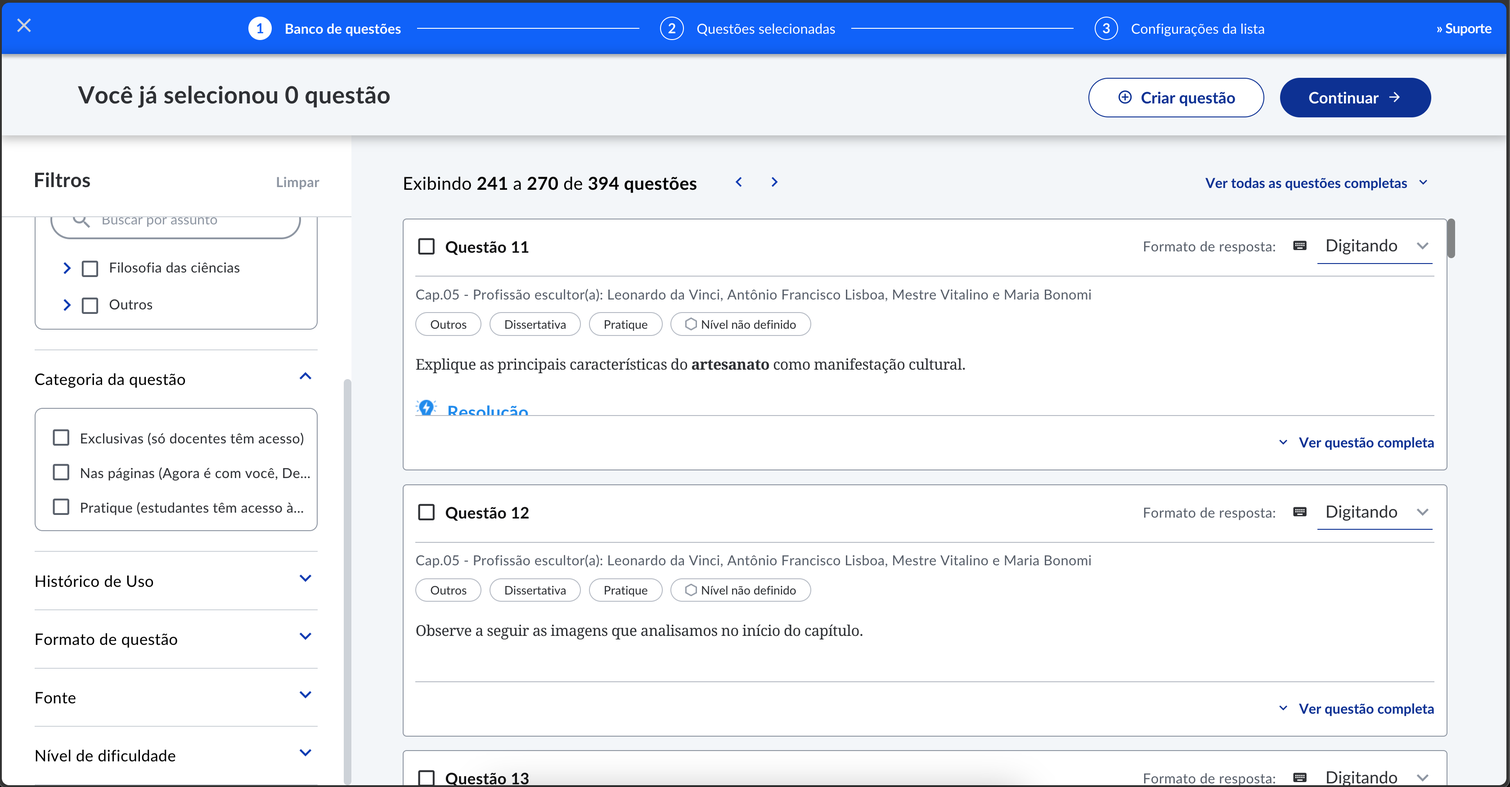
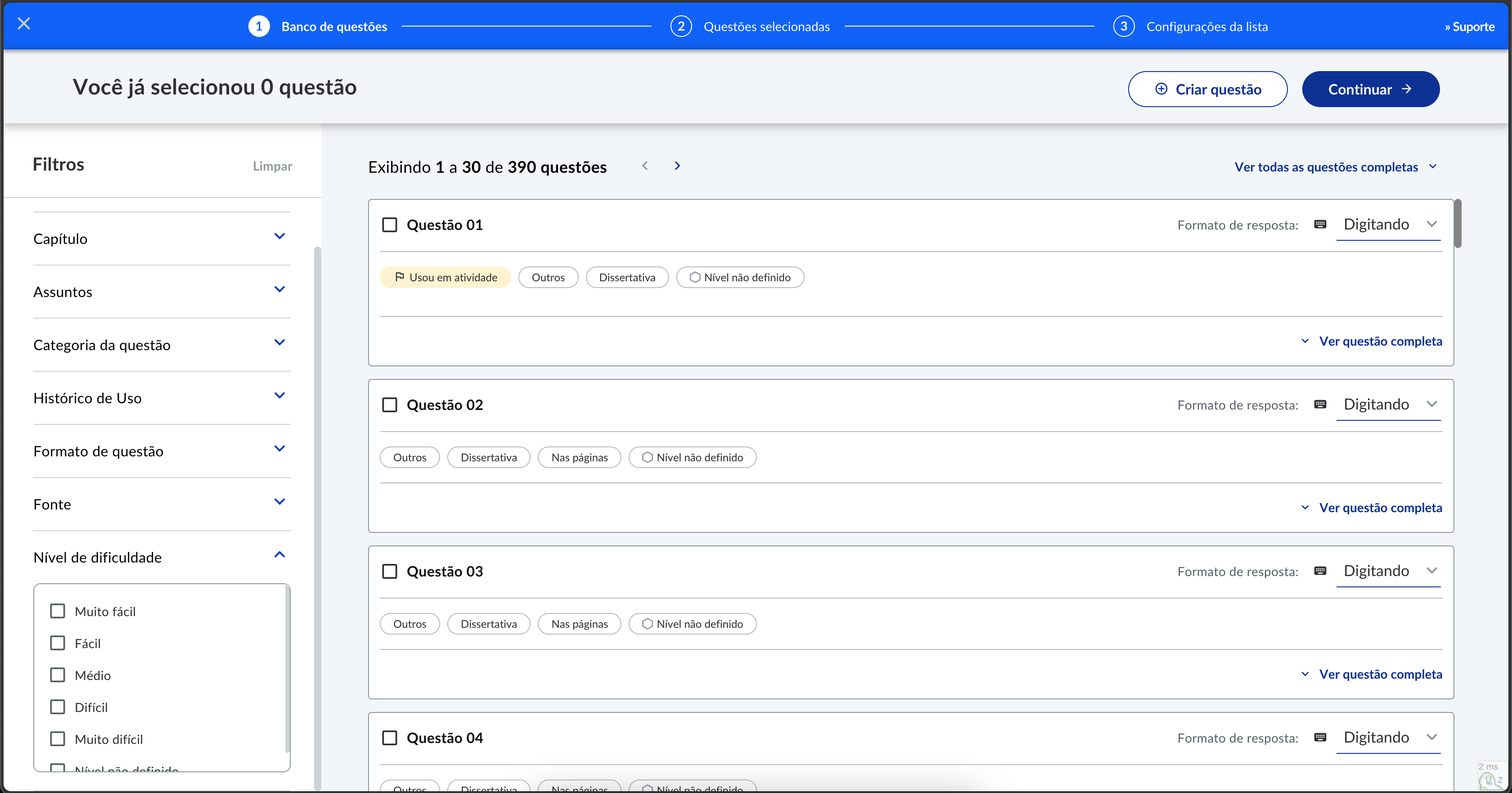
Correções até a subseção de planejamento do experimento (5.1.2)

diff --git a/editaveis/secao-execucao/pre-estudo.tex b/editaveis/secao-execucao/pre-estudo.tex
@@ -1,34 +1,44 @@
 \subsection{Planejamento do Experimento Controlado}
 \label{subsec:plan_exp}
-Após a fase de ideação, iniciou-se o planejamento do experimento. Este estudo visa responder à primeira questão específica de pesquisa do estudo de caso, descrita na subseção \ref{subsec:estudo-questao}. Neste experimento, duas versões do produto são comparadas avaliando aspectos relacioandos a visão da qualidade em uso do produto.
 
-A literatura destaca a dificuldade em definir métricas que representem com precisão a entrega de valor desejada \cite{crook_seven_2009, larsen_statistical_2024}. Para evitar limitações de uma única medida, foram selecionadas métricas que refletem alguns dos objetivos de longo prazo do negócio, utilizando normas de referência para garantir maior confiabilidade e reprodutibilidade dos resultados. 
+Após a fase de ideação, iniciou-se o planejamento do experimento. Este estudo busca responder à primeira questão específica de pesquisa do estudo de caso, conforme descrito na Subseção \ref{subsec:estudo-questao}. O experimento consiste na comparação entre duas versões do produto, avaliando aspectos relacionados à qualidade em uso.
 
+A literatura evidencia a complexidade na definição de métricas que representem com precisão a entrega de valor almejada \cite{crook_seven_2009, larsen_statistical_2024}. Para mitigar as limitações inerentes a uma única métrica, optou-se por adotar múltiplas medidas que refletem alguns dos objetivos estratégicos do negócio, utilizando normas de referência para assegurar maior confiabilidade e reprodutibilidade dos resultados.
 
-\todo[inline, color=pink]{Atenção: Aqui é necessário trazer toda aquela parte conceitual, aplicada, sobre metrica, medida. Informações como o tipo de escalas, objetiva-subjetiva, direta-indireta Releia o cap. 3 do livro do Wohlin} 
+No contexto da Engenharia de \textit{Software}, as métricas podem ser classificadas segundo diferentes critérios. Quanto à \textbf{forma de coleta}, uma métrica pode ser \textbf{direta}, quando obtida sem necessidade de cálculos ou transformações, ou \textbf{indireta}, quando derivada a partir de outras métricas. Além disso, as métricas podem ser \textbf{objetivas}, caso sua mensuração seja independente da interpretação do avaliador, ou \textbf{subjetivas}, quando dependem da percepção do avaliador ou do próprio usuário \cite{wohlin_experimentation_2012}.
 
+Outro fator relevante é o tipo de \textbf{escala} utilizada, que influencia as análises estatísticas aplicáveis. As escalas \textbf{nominais} classificam os dados sem uma ordem definida, enquanto as escalas \textbf{ordinais} estabelecem uma hierarquia, mas sem diferenças proporcionais entre os valores. Já as escalas \textbf{intervalares} permitem quantificar diferenças, embora sem um zero absoluto, ao passo que as escalas \textbf{de razão} possuem um zero absoluto e possibilitam comparações proporcionais \cite{wohlin_experimentation_2012}.
 
-
-As métricas foram escolhidas com base na norma \citeonline{nbr9241}, considerando o contexto do filtro de nível de dificuldade e da criação de atividades, funcionalidades diretamente relacionadas à suposição analisada. 
-
-
-As métricas adotadas são \textcolor{blue}{são}\todo[color=yellow]{explicar melhor. Está confuso }: 
+Dessa forma, na seleção das métricas para este experimento, tomou-se como base a norma \citeonline{nbr9241}, considerando o contexto do filtro de nível de dificuldade e da criação de atividades, funcionalidades diretamente relacionadas à hipótese analisada. Assim, as métricas adotadas foram definidas para capturar diferentes dimensões da qualidade em uso, sendo elas:
 
 \begin{itemize}
-  \item o número de vezes que cada usuário utilizou o filtro - representando uma percepção quantitativa da característica de qualidade satisfação de usuário. Esta, por sua vez, foi observada por meio da subcaracterística de utilidade;
-  \item o número de atividades criadas e o número de exercícios selecionados, ambos relacionados à caracter;istica da quelidade de eficácia do produto - auxilia o usuário a alcançar seus objetivos na plataforma. 
+  \item \textbf{Número de utilizações do filtro de nível de dificuldade}: métrica objetiva e direta, mensurada na escala de razão. Representa um indicador quantitativo da subcaracterística de \textit{utilidade}, relacionada à satisfação do usuário.
+  \item \textbf{Número de atividades criadas}: métrica objetiva e direta, também mensurada na escala de razão. Relaciona-se à eficácia do produto, indicando se a plataforma auxilia o usuário a atingir seus objetivos.
+  \item \textbf{Número de exercícios selecionados}: métrica objetiva e direta, mensurada na escala de razão. Assim como a métrica anterior, reflete a eficácia do produto, avaliando o engajamento dos usuários na realização de atividades propostas.
 \end{itemize}
 
-\todo[inline, color=pink]{Crie uma tabela com uma estrutura semelhante a apresentada no q-rapids. Confira na pg. 5  \url{https://github.com/fga-eps-mds/Analytics/blob/master/q-rapids\%20model-doc.pdf}}  
+A escolha dessas métricas visa garantir que os dados coletados possibilitem uma análise estatística confiável e alinhada aos objetivos do estudo. Ademais, a utilização de múltiplas métricas reduz o risco de interpretações enviesadas e amplia a compreensão dos impactos das modificações no produto. A relação dessas métricas com as características e subcaracterísticas da qualidade em uso é apresentada na Tabela \ref{tab:metricas_qualidade_uso}.
 
- Além disso, utilizamos o  método AHP para capturar a opinião dos \textit{stakeholders} sobre suas preferências relativas em relação a grau de importancia entre medidas e indicadores, conforme proposto no modelo QATCH. Assim, utilizamos uma escala intervalar para mapear as relações qualitativas e quantitativas. de forma a transformar as preferências relativas, em representações numéricas, conforme apresentado da tabala XXX....
- 
- \todo[inline, color=pink]{Crie uma tabela com essas informações. Desde o nível das medidas até as características }   
+\begin{table}[h]
+    \centering
+    \renewcommand{\arraystretch}{1.2}
+    \setlength{\tabcolsep}{3pt}
+    \begin{tabular}{|p{3cm}|p{3.5cm}|p{3.75cm}|p{4.75cm}|}
+        \hline
+        \textbf{Característica} & \textbf{Subcaracterística} & \textbf{Métrica} & \textbf{Descrição} \\
+        \hline
+        \multirow{1}{*}{Satisfação} & Utilidade & Número de utilizações do filtro de nível de dificuldade & Mede a utilidade da funcionalidade ao quantificar a frequência de uso dentro do período observado. \\
+        \hline
+        \multirow{2}{*}{Eficácia} & Eficácia & Número de atividades criadas & Avalia a eficácia do produto em auxiliar o usuário a alcançar seus objetivos, especificamente na criação de listas de exercícios. \\
+        \cline{2-4}
+        & Eficácia & Número de exercícios selecionados & Mede a eficácia do produto na seleção de exercícios para atividades, refletindo o engajamento do usuário. \\
+        \hline
+    \end{tabular}
+    \caption{Métricas Escolhidas de Qualidade em Uso}
+    \label{tab:metricas_qualidade_uso}
+\end{table}
 
-\todo[inline, color=pink]{Ainda, toda a definição das categorias Importante, Muito mais Importante,.... precisam ser explicadas. Por ex: medida em escalar intervalar; relações qualitativa X quantitativa quanto; intervalos, grau de incerteza;... } 
-
-\textcolor{blue}{na ponderaçãol}\todo[color=yellow]{Reescrever} na ponderação dos resultados, o peso de cada métrica foi determinado pelo método AHP, conforme proposto pelo modelo QATCH, convertendo avaliações qualitativas em pesos quantitativos (ver Subseções \ref{subsec:qatch} e \ref{subsec:ahp}). Esse processo define a importância relativa de cada métrica e característica em diferentes níveis de agregação (ver Figura \ref{fig:qatch_experiment}). O resultado está apresentado nas Tabelas \ref{tab:ahp-metrics} e \ref{tab:ahp-characteristics}.
-
+Além disso, para incluir a percepção dos profissionais envolvidos na ponderação dos resultados, o peso de cada métrica foi determinado pelo método AHP, conforme proposto pelo modelo QATCH, convertendo avaliações qualitativas em pesos quantitativos (ver Subseções \ref{subsec:qatch} e \ref{subsec:ahp}). Para isso, foi realizada uma reunião para definir a importância relativa de cada métrica e característica em diferentes níveis de agregação. Essa avaliação foi feita por pares, considerando a relação entre satisfação e eficácia (no nível de característica, para calcular a qualidade em uso) e entre o número de listas criadas e exercícios selecionados (no nível de métrica, para calcular a eficácia). Essa relação é ilustrada na Figura \ref{fig:qatch_experiment}.
 
 \begin{figure}
     \centering
@@ -40,81 +50,110 @@ As métricas adotadas são \textcolor{blue}{são}\todo[color=yellow]{explicar me
     \label{fig:qatch_experiment}
 \end{figure}
 
+Após discussões, os pesos relativos foram definidos em consenso, sendo os resultados apresentados nas Tabelas \ref{tab:ahp-metrics} e \ref{tab:ahp-characteristics}. Com esses valores estabelecidos, foi possível calcular os pesos quantitativos. A métrica de número de listas de exercícios criadas possui peso de 0.8889, enquanto a métrica de número de exercícios selecionados tem peso de 0.111. Juntas, representam a característica de eficácia. Para as características, os pesos são 0.8333 para satisfação e 0.1667 para eficácia. A soma desses valores gera um indicador único de qualidade em uso para cada usuário (este cálculo é detalhado na Subseção \ref{subsec:qatch}). Essa relação é apresentada visualmente na Figura \ref{fig:qatch_pesos}.
+
 \begin{table}[ht]
     \centering
+    \caption{Importância Relativa das Métricas de Eficácia}
     \begin{tabular}{|p{4cm}|p{4cm}|p{6.5cm}|}
         \hline
-        Métrica & N. de Listas Criadas & N. de Exercícios Selecionados \\ \hline
-        N. de Listas Criadas & - & Muito Mais Importante \\ \hline
-        N. de Exercícios Selecionados & - & - \\ \hline
+        Métrica & Nº de Listas Criadas & Nº de Exercícios Selecionados \\ \hline
+        Nº de Listas Criadas & - & Muito Mais Importante \\ \hline
+        Nº de Exercícios Selecionados & - & - \\ \hline
     \end{tabular}
-    \caption{Importância Relativa das Métricas de Eficácia}
+    \begin{center}
+        \text{Fonte: Autor}
+    \end{center}
     \label{tab:ahp-metrics}
 \end{table}
 
 \begin{table}[ht]
     \centering
+    \caption{Importância Relativa das Características de Qualidade em Uso}
     \begin{tabular}{|p{4cm}|p{4cm}|p{6.5cm}|}
         \hline
         Característica & Satisfação & Eficácia \\ \hline
         Satisfação & - & Moderadamente Mais Importante \\ \hline
         Eficácia & - & - \\ \hline
     \end{tabular}
-    \caption{Importância Relativa das Características de Qualidade em Uso}
+    \begin{center}
+        \text{Fonte: Autor}
+    \end{center}
     \label{tab:ahp-characteristics}
 \end{table}
 
-Com os níveis de importância estabelecidos, é possível calcular os pesos quantitativos. A métrica de número de listas de exercícios criadas possui peso de 0.8889, enquanto a métrica de número de exercícios selecionados tem peso de 0.111. Juntas, representam a característica de eficácia. Para as características, os pesos são 0.8333 para satisfação e 0.1667 para eficácia. Esses valores, somados, geram um indicador único de qualidade em uso para um usuário específico (para mais detalhes sobre o cálculo, ver Subseção \ref{subsec:qatch}).
+\begin{figure}
+    \centering
+    \caption{Pesos da Ponderação Agregada QATCH no Experimento}
+    \includegraphics[width=1\linewidth]{figuras/tabela_exemplo_agregacao.png}
+    \begin{center}
+        \text{Fonte: Autor}
+    \end{center}
+    \label{fig:qatch_pesos}
+\end{figure}
 
-\todo[inline, color=pink]{Acerte aquela tabela que começamos fazer em uma de nossas reuniões e represente ela aqui, para explicar as definições dos pesos. Uma espécie de passo-a-passo. Descreva um exemplo.}
 
-Tabela que começamos fazer: \url{https://docs.google.com/spreadsheets/d/1S00LLnvxdgasowrQ79PKTeR8xDZLZBjgEeV3TmjYhXs/edit?gid=0#gid=0}
+Desta forma então, os indicadores de qualidade em uso de cada usuário serão utilizados para se testar a hipótese formulada neste experimento, que servirá para responder a primeira questão específica deste estudo de caso, aprensentada na Subseção \ref{subsec:estudo-questao} (\textit{Durante o experimento, foi possível identificar diferença de qualidade em uso entre as versões de controle (A) e de tratamento (B) do produto, a partir de seu uso?}). Temos então as seguintes definições do experimento:
 
-O experimento foi estruturado da seguinte forma:
 
-\todo[inline, color=pink]{Penso que essa estrutura de marcadores não ficou legal. Alterar para lista numerada}
-
-\begin{itemize}
- \item \textbf{Escopo:} \textcolor{blue}{Descrever. Veja pg. 85 do livro do Wohlin}   
+\begin{enumerate}
+    \item \textbf{Escopo:} Analisar as versões A e B do produto com o propósito de avaliar sua efetividade e usabilidade das funcionalidads de filtragem de exercícios e criação de atividades, do ponto de vista do usuário final, no contexto do ambiente real de uso do sistema;
     
-    \item \textbf{Objeto:} \textcolor{blue}{???? Eventos de uso do produto, gerados a partir da utilização das funcionalidades A,B C, ... Esses eventos de uso são obtidos no servidor de aplicação XXX, registros no banco de dados, .... Explicar melhor isso.}
+    \item \textbf{Objeto:} Versões de tratamento (A) e de controle (B) do produto sendo estudado;
     
-    \item \textbf{Sujeitos:} Os participantes serão docentes que criam listas de exercícios na plataforma. Eles serão divididos em dois grupos: o de tratamento, composto pelos usuários beta, e o de controle, formado pelos demais usuários da base;
+    \item \textbf{Sujeitos:} Os participantes serão apenas os usuários docentes, já que são estes que criam listas de exercícios na plataforma. 
     
-    \item \textbf{Fator:} O fator analisado será do comportamento em uso do produto, observado em termos das características qualidade em uso de satisfação e eficácia.
-   
-    \item \textbf{Variável Independente:} \textcolor{blue}{A posição do filtro}\todo[color=yellow]{Quais são exatamente essas posições?} a posição do filtro de nível de dificuldade. As posições do filtro serão mantidas de forma persistente para cada grupo, garantindo que cada usuário visualize sempre o filtro na mesma posição;
+    \item \textbf{Populações:} Os sujeitos serão divididos em dois grupos: o de tratamento, composto pelos usuários beta, e o de controle, formado pelos demais usuários da base; Hoje os usuários beta representam cerca de 10\% da base total de usuários, uma maior discussão sobre esta divisão foi apresentada na Subseção \ref{subsubsec:variants};
 
-\todo[inline, color=pink]{Seria bom ter duas imagens das telas. Uma com o filtro na versão atual e outra com respectiva alteração na interface gráfica.}
+    \item \textbf{Amostra:} a amostra coletada irá se referir a todos os docentes que criaram atividades no período e usaram algum dos filtros disponíveis; Não é possível estimar a proporção do tamanho da amostra dado que o mesmo dependerá do nível de atividade dos usuários durante o período;
 
-    \item \textbf{Variáveis Dependentes:} Número de vezes que cada docente utilizou o filtro, número de listas de exercícios criadas e número de exercícios selecionados. Essas variáveis serão normalizadas, ponderadas e agregadas para compor o indicador quantitativo \textit{Q}, conforme definido no modelo QATCH. Esse indicador funciona como um \textit{surrogate} que expressa a percepção da qualidade em uso, observada em uma determinada vesão do produto;
+    \item \textbf{Fator:} O fator analisado será a posição do filtro de nível de dificuldade no banco de questões. Dois tratamentos serão aplicados: um em que o filtro permanece na última posição (grupo de controle) e outro em que o filtro aparece em posição superior na listagem (grupo de tratamento);
+    
+    \item \textbf{Variáveis Independentes:} A posição do filtro será mantida de forma persistente para cada grupo, garantindo que cada usuário visualize sempre o filtro na mesma posição; A versão de controle será a mesma que já existe hoje, onde ele é o último da lista, como já abordado na Subseção \ref{subsec:plan_exp} e apresentado na Figura \ref{fig:selecao-questoes-controle}, já a versão de tratamento é apresentada na Figura \ref{fig:selecao-questoes-tratamento}, onde o filtro se torna o quarto da lista (esta posição foi ecolhida por que as três primeiras categorias são importantes para determinados fluxos de uso da aplicação, fazendo com que a equipe preferisse não alterá-los de lugar);
+    
+    \item \textbf{Variáveis Dependentes:} Número de vezes que cada docente utilizou o filtro, número de listas de exercícios criadas e número de exercícios selecionados. Essas variáveis serão normalizadas, ponderadas e agregadas para compor o indicador quantitativo \textit{Q}, conforme definido no modelo QATCH e apresentado anteriormente. Esse indicador busca expressar a percepção da qualidade em uso, observada em uma determinada versão do produto;
 
- 	\item \textbf{Tratamentos:} Dois tratamentos serão aplicados: um em que o filtro permanece na última posição (grupo de controle) e outro em que o filtro aparece em posição superior na listagem (grupo de tratamento);
-
- 	\item \textbf{\textit{Design}:} \textcolor{blue}{Descrever. Veja pg. 95 do livro do Wohlin. Crie uma tabela com exemplo para ilustrar. Veja tabelas 8.1  ou 8.2 na pg. 96. Veja também o cap. 7 do livro da Natalia Juristo. }     
-   
-    \item \textbf{Hipóteses:}
- 
- 	\todo[inline, color=pink]{Aqui deve haver um texto com a explanação que explique e conecte o mundo real (suposições dos especialistas sobre o uso do filtro e serem criadas mais questões, listas de exercícios,...). Depois, explicar como isso se reflete na quantificação da percepção da qualidade em uso. A partir disso é que as hipóteses são apresentadas... A hipótese a ser refutada é que não há diferença na percepção da qualidade em uso entre a versão de controle (A) e a de tratamento(B). Em desfavor dessa hipótese nula, são testadas as hipóteses alternativas: 1) a percepção da qualidade em uso é maior na versão de controle(A) em comparação à versão de tratamento(B) e 2) a percepção da qualidade em uso é menor na versão de controle(A) em comparação à versão de tratamento(B)  }
-
+    \item \textbf{\textit{Design}:} Desta forma então, o experimento se tratará de um experimento de um fator e dois tratamentos, ou seja, haverão dois grupos onde cada um receberá um tratamento para o fator analisado, conforme apresentado na Tabela \ref{tab:design}; 
+    
+    \item \textbf{Hipóteses:} A hipótese nula a ser refutada neste experimento então será referente à qualidade em uso das duas versões analisadas, utilizando das métricas apresentadas anteriormente para analisar o contexto da funcionalidade avaliada, esta provém da suposição selecionada para teste que se refere à utilização do filtro de nível de dificuldade. Sendo assim temos as seguintes hipóteses:
+    
     \begin{itemize}
-        \item $H_0$: $Q_a = Q_b$
-        \item $H_1$: $Q_a > Q_b$
-        \item $H_2$: $Q_a < Q_b$
+        \item $H_0$: Não há diferença na percepção da qualidade em uso entre a versão de controle e a de tratamento ($Q_a = Q_b$);
+        \item $H_1$: A percepção da qualidade em uso é maior na versão de controle em comparação à versão de tratamento ($Q_a > Q_b$);
+        \item $H_2$: A percepção da qualidade em uso é menor na versão de controle em comparação à versão de tratamento ($Q_a < Q_b$).
     \end{itemize}
-    
-    \item \textbf{Erros do Tipo I e II:} \textcolor{blue}{Descrever as estratégias planejadas para tratar esses erros}  
+\end{enumerate}
 
-	\item \textbf{População e Amostra:} \textcolor{blue}{Descrever a estratégia de seleção e o tamanho da amostra em relação a população.}  
-        
-\end{itemize}
 
-Dessa forma, ao se estudar as suposições dos colaboradores sobre o produto, deve ser possível responder a primeira questão de pesquisa específica deste estudo de caso, aprensentada na Subseção \ref{subsec:estudo-questao}. Relembrando:
+\begin{figure}
+    \centering
+    \caption{Versão de Tratamento do Produto Analisado}
+    \includegraphics[width=1\linewidth]{figuras/selecao-questoes-tratamento.png}
+    \begin{center}
+        \text{Fonte: Autor}
+    \end{center}
+    \label{fig:selecao-questoes-tratamento}
+\end{figure}
 
-\begin{center}
-\textit{Durante o experimento, foi possível identificar diferença na percepção da qualidade em uso entre as versões do produto, A (controle) e B (tratamento).} \textcolor{blue}{tratamento}\todo[color=yellow]{Reescreva a QP na subseção 4.1.4}
-\end{center}
+\begin{table}[]
+\centering
 
+    \caption{\textit{Design} do Experimento}
+
+    \begin{tabular}{|c|cl|}
+        \hline
+        \multirow{2}{*}{População} & \multicolumn{2}{c|}{Fator} \\ \cline{2-3} 
+         & \multicolumn{2}{c|}{Posição do Filtro} \\ \hline
+        Controle & \multicolumn{2}{c|}{Tratamento A (Última Posição)} \\ \hline
+        Tratamento (Usuários Beta) & \multicolumn{2}{c|}{Tratamento B (Quarta Posição)} \\ \hline
+    \end{tabular}
+
+    \begin{center}
+        \text Fonte: Autor
+    \end{center}
+
+    \label{tab:design}
+\end{table}
 
 \subsection{Pré-estudo do Experimento}
 \label{subsec:pre-estudo}

diff --git a/editaveis/secao-referencial/qualidade.tex b/editaveis/secao-referencial/qualidade.tex
@@ -30,7 +30,7 @@ Apesar desses avanços, a subjetividade na definição dos pesos e na agregaçã
 \subsection{Modelo QATCH}
 \label{subsec:qatch}
 
-O modelo porposto por \citeonline{qatch} utiliza de métricas de qualidade e da opinião de \textit{stakeholders} para agragar indicadores que representem a qualidade de um \textit{software}, visando resolver problemas de falta de adaptabilidade ao contexto de cada produto e a subjetividade existente nas avaliações de qualidade.
+O modelo proposto por \citeonline{qatch} utiliza métricas de qualidade e a opinião de \textit{stakeholders} para agregar indicadores que representem a qualidade de um \textit{software}, visando resolver problemas de falta de adaptabilidade ao contexto de cada produto e a subjetividade existente nas avaliações de qualidade.
 
 Para garantir objetividade e transparência, \citeonline{qatch} sugerem que os pesos das métricas sejam definidos previamente pelos \textit{stakeholders}, aplicando uma adaptação da técnica de Processo Analítico Hierárquico (AHP) \cite{ahp}. Essa técnica hierárquica permite organizar as métricas de forma estrutural, sendo compatível com a abordagem de agregação do QATCH, onde os escores das propriedades formam as pontuações das características, que por sua vez são agregadas para compor os aspectos principais do modelo de qualidade.
 
@@ -64,17 +64,7 @@ onde:
     \item \( M \) é o número total de propriedades relacionadas à característica.
 \end{itemize}
 
-O processo de avaliação segue uma abordagem \textit{bottom-up}, onde os escores das propriedades são usados para calcular os escores das características, que, por sua vez, compõem o escore geral do produto (\( Q \)). O resultado final é um valor entre 0 e 1, permitindo uma interpretação quantitativa da qualidade. Para facilitar a compreensão, esse valor é traduzido para uma classificação em estrelas (de 1 a 5), com intervalos bem definidos.
-
-Os valores dos pesos (\( w_{ci} \) e \( w_{pij} \)) são definidos com base em opiniões de especialistas, aplicando técnicas de decisão multicritério. Esse método sistemático oferece uma forma objetiva e compreensível de avaliar a qualidade de produtos de software, promovendo transparência e permitindo melhorias contínuas no desenvolvimento de sistemas. Adicionalmente, o modelo reconhece que uma propriedade pode influenciar mais de uma característica, ficando à critério da visão dos \textit{stakeholders} do contexto sendo avaliado. Desta forma, a agregação realizada pode ser visualizada na Figura \ref{fig:qatch}.
-
-\begin{figure}[h]
-\centering
-\caption{Processo de Agregação do Modelo QATCH}
-\includegraphics[width=1\linewidth]{figuras/qatch.png}
-\text{Fonte: \citeonline{qatch}}
-\label{fig:qatch}
-\end{figure}
+O processo de avaliação segue uma abordagem \textit{bottom-up}, onde os escores das propriedades são usados para calcular os escores das características, que, por sua vez, compõem o escore geral do produto (\( Q \)). O resultado final é um valor entre 0 e 1, permitindo uma interpretação quantitativa da qualidade.
 
 \subsection{Processo AHP}
 \label{subsec:ahp}
@@ -94,59 +84,56 @@ A =
 \end{bmatrix}.
 \]
 
-Nesta matriz:
-\begin{itemize}
-    \item \( a_{ij} \) representa a importância relativa do elemento \( i \) em relação ao elemento \( j \);
-    \item Os valores \( a_{ij} \) são determinados pelos tomadores de decisão com base em uma escala de razão, variando entre 1 e 9, onde \( 1 \) indica que ambos os elementos são igualmente importantes, e \( 9 \) indica que um elemento é extremamente mais importante que o outro;
-    \item A diagonal principal contém valores iguais a \( 1 \), pois um elemento comparado consigo mesmo tem importância relativa igual.
-\end{itemize}
+Os valores \( a_{ij} \) são determinados com base na escala de razão conforme a Tabela \ref{tab:ahp_scale}:
 
-A parte triangular inferior da matriz é preenchida com os recíprocos dos valores da parte superior (\( a_{ji} = \frac{1}{a_{ij}} \)).
+\begin{table}[h]
+\centering
+\caption{Escala de comparação do AHP no QATCH}
+\label{tab:ahp_scale}
+\begin{tabular}{|c|l|}
+\hline
+\textbf{Valor} & \textbf{Nível de Importância} \\ \hline
+1 & Igualmente importante \\ \hline
+3 & Pouco mais importante \\ \hline
+5 & Moderadamente mais importante \\ \hline
+7 & Muito mais importante \\ \hline
+9 & Extremamente mais importante \\ \hline
+\end{tabular}
 
-Os pesos dos critérios ou alternativas são calculados a partir da matriz \( A \). Para isso, é necessário determinar o \textbf{autovetor principal} associado ao maior autovalor (\( \lambda_{\text{máx}} \)) da matriz. O autovetor principal (\( w \)) é normalizado para que a soma de seus elementos seja igual a 1:
+\begin{center}
+    \text{Fonte: \citeonline{qatch}}
+\end{center}
+\end{table}
 
-\[
-w_i = \frac{a_i}{\sum_{j=1}^{n} a_j}, \quad \forall i \in \{1, 2, \dots, n\},
-\]
+\subsection{Extensão \textit{Fuzzy} do AHP}
 
-\noindent
-onde:
-\begin{itemize}
-    \item \( w_i \) é o peso relativo do \( i \)-ésimo elemento;
-    \item \( a_i \) é o componente correspondente do autovetor principal.
-\end{itemize}
-
-No modelo QATCH \cite{qatch}, o AHP é utilizado para calcular os pesos tanto das \textbf{características} quanto das \textbf{propriedades} do modelo de qualidade. Esses pesos são então utilizados nas fórmulas de média ponderada para calcular os escores de qualidade em diferentes níveis de avaliação. Desta forma, o escore geral de qualidade (\( Q \)) é calculado agregando os escores das características (\( q_{ci} \)) com base em seus pesos (\( w_{ci} \)):
-
-\[
-Q = \sum_{i=1}^N w_{ci}q_{ci}.
-\]
-
-De forma similar, o escore de cada característica (\( q_{ci} \)) é calculado com base nos escores das propriedades relacionadas (\( q_{pj} \)) e seus respectivos pesos (\( w_{pij} \)):
-
-\[
-q_{ci} = \sum_{j=1}^M w_{pij}q_{pj}, \quad \forall i \in \{1, 2, \dots, N\}.
-\]
-
-Além disso, apesar do AHP convencional fornecer um método estruturado e matematicamente sólido, ele depende de julgamentos humanos que podem ser subjetivos e suscetíveis a incertezas. Para lidar com essas limitações, o \textbf{Fuzzy AHP} estende o AHP incorporando lógica \textit{fuzzy}. Nesse contexto:
+O \textit{Fuzzy} AHP aprimora o método ao incorporar conceitos da lógica \textit{fuzzy}, permitindo a modelagem da incerteza inerente aos julgamentos subjetivos dos especialistas \cite{qatch}. Essa abordagem possibilita uma avaliação mais realista e flexível ao atribuir graus de certeza para cada comparação realizada.
 
 \begin{itemize}
-    \item Os especialistas atribuem valores linguísticos, como "Muito Alto" ou "Moderado", em vez de números precisos;
-    \item Esses valores são convertidos em \textbf{números fuzzy triangulares}, representados como \( (l, m, u) \), onde:
+    \item Além do nível de importância, os especialistas indicam um grau de certeza qualitativo, categorizado como \textit{Alta Certeza}, \textit{Média Certeza} ou \textit{Baixa Certeza};
+    \item Esses valores são convertidos em \textbf{números fuzzy triangulares}, expressos como \( (m - \sigma, m, m + \sigma) \), onde:
     \begin{itemize}
-        \item \( l \): limite inferior;
-        \item \( m \): valor modal;
-        \item \( u \): limite superior.
+        \item \( m \) representa o valor modal, conforme a escala de Saaty;
+        \item \( \sigma \) ajusta a dispersão do peso, variando conforme o grau de certeza: 0.1 para alta certeza, 0.5 para média certeza e 0.9 para baixa certeza.
     \end{itemize}
 \end{itemize}
 
-Os pesos \textit{fuzzy} são calculados usando o método dos \textbf{Mínimos Quadrados Logarítmicos Fuzzy} e, posteriormente, defuzzificados para produzir valores exatos (\textit{crisp}) que podem ser usados nas fórmulas de média ponderada. O processo de defuzzificação utiliza o método do centro de massa:
+A função de pertinência fuzzy utilizada no QATCH é definida por:
 
 \[
-F = \frac{\int x \mu(x) dx}{\int \mu(x) dx},
+\mu_A(x) = \begin{cases} 
+\frac{x - l}{m - l}, & l \leq x \leq m, \\ 
+\frac{u - x}{u - m}, & m \leq x \leq u, \\ 
+0, & \text{caso contrário}. 
+\end{cases}
 \]
 
-\noindent
-onde \( \mu(x) \) é a função de pertinência \textit{fuzzy}.
+Os pesos \textit{fuzzy} são determinados por meio do \textbf{método dos Mínimos Quadrados Logarítmicos Fuzzy} e posteriormente defuzzificados para obtenção de valores exatos (\textit{crisp}), que podem ser empregados nas fórmulas de média ponderada. O processo de defuzzificação utiliza o \textbf{método do centro de massa}:
+
+\[
+F = \frac{\int x \mu(x) dx}{\int \mu(x) dx}.
+\]
+
+
 
 Desta forma, o AHP e sua extensão \textit{fuzzy} oferecem uma abordagem robusta para elicitar pesos em problemas de decisão multicritério, permitindo que julgamentos qualitativos sejam traduzidos em medidas quantitativas. No contexto do QATCH, essa metodologia garante que os pesos refletem a percepção dos especialistas sobre a qualidade do software, resultando em avaliações mais precisas e adaptáveis.

diff --git a/editaveis/secao-execucao/ideacao.tex b/editaveis/secao-execucao/ideacao.tex
@@ -1,16 +1,16 @@
-\subsection{Levantamento de Hipóteses e Oportunidades de Solução}
+\subsection{Levantamento de Oportunidades de Solução}
 
-A primeira atividade realizada consistiu no levantamento de conjecturas sobre o produto, formuladas a partir de suposições dos \textit{stakeholders} e motivadas por diversos fatores, como por exemplo, conhecimento de negócio, estado do mercado e concorrência. Além disso, foram observados alguns dados de uso das funcionalidades. Dessa forma, inicialmente, os colaboradores foram instruídos a compartilhar suas percepções, que seriam discutidas para que uma delas fosse selecionada e validada por meio de um experimento.
+A primeira atividade realizada consistiu no levantamento de suposições sobre o produto, formuladas a partir de ideias dos colaboradores envolvidos e motivadas por diversos fatores, como por exemplo, conhecimento de negócio, estado do mercado e concorrência. Além disso, foram observados alguns dados de uso das funcionalidades. Dessa forma, inicialmente, os colaboradores foram instruídos a compartilhar suas percepções, que seriam discutidas para que uma delas fosse selecionada e validada por meio de um experimento.
 
-Todas as conjecturas  \textcolor{blue}{hipóteses}\todo[color=yellow]{há uma sobrecarga em relação ao uso do termo hipótese. Como executamos um experimento é melhor não sobrepor conceitos. Como você já sabe, hipótese é algo formalmente definido.} levantadas foram documentadas na plataforma Notion \cite{notion}, onde foram registradas suas motivações, objetivos e demais informações relevantes, com o propósito de armazenar o conhecimento gerado pelo processo e criar um repositório compartilhado dentro da empresa (ver Apêndice \ref{apdx:notion}). 
+Todas as suposições levantadas foram documentadas na plataforma Notion \cite{notion}, onde foram registradas suas motivações, objetivos e demais informações relevantes, com o propósito de armazenar o conhecimento gerado pelo processo e criar um repositório compartilhado dentro da empresa (ver Apêndice \ref{apdx:notion}). 
 
-Após a discussão, uma conjectura foi escolhida para ser investigada por meio do experimento controlado. Assim, houve a formalização da hipótese  relacionada à subutilização de uma funcionalidade específica da plataforma. O produto permite que docentes criem listas de exercícios para aplicação posterior com os estudantes. Durante esse processo, o usuário seleciona manualmente as questões e, para facilitar essa busca, o sistema oferece uma série de filtros que ajudam a encontrar os itens mais adequados às necessidades do professor. A funcionalidade pode ser melhor compreendida na Figura \ref{fig:selecao-questoes-tratamento} (barra de filtros à esquerda \textcolor{blue}{esquerda}\todo[color=yellow]{Seria melhor fazer um printscream com filtro do nível de dificuldade "aberto", ao invéz, da categoria da questão.} ).
+Após a discussão, uma suposição foi escolhida para ser investigada por meio do experimento controlado. Esta estava relacionada à subutilização de uma funcionalidade específica da plataforma. O produto permite que docentes criem listas de exercícios para aplicação posterior com os estudantes. Durante esse processo, o usuário seleciona manualmente as questões e, para facilitar essa busca, o sistema oferece uma série de filtros que ajudam a encontrar os itens mais adequados às necessidades do professor. A funcionalidade pode ser melhor compreendida na Figura \ref{fig:selecao-questoes-tratamento} (barra de filtros à esquerda).
 
-A funcionalidade subutilizada refere-se a um filtro por nível de dificuldade da questão. Um dos colaboradores identificou, a partir de dados quantitativos disponibilizados pelo Mixpanel \cite{mixpanel2024}, que esse era o filtro menos utilizado dentre todas as opções disponíveis. No entanto, essa informação contrariava as expectativas da equipe, pois a inclusão desse filtro havia sido amplamente solicitada pelos professores durante processos de \textit{feedback} sobre a plataforma.
+A funcionalidade subutilizada refere-se a um filtro por nível de dificuldade do exercício. Um dos colaboradores identificou, a partir de dados quantitativos disponibilizados pelo Mixpanel \cite{mixpanel2024}, que esse era o filtro menos utilizado dentre todas as categorias disponíveis. No entanto, essa informação contrariava as expectativas da equipe, pois a inclusão desse filtro havia sido amplamente solicitada pelos professores durante processos de \textit{feedback} sobre a plataforma.
 
 Além disso, a categorização das questões exige um esforço adicional, para além das alterações no código-fonte, uma vez que o time editorial realiza manualmente essa classificação, questão por questão. Assim, a empresa esperava que o uso da funcionalidade fosse proporcional ao esforço investido em sua implementação.
 
-Diante dessa percepção, o colaborador conjecturou que a baixa adoção do filtro poderia estar relacionada à sua posição na interface gráfica, já que ele se encontrava no final da lista. Especulou-se que, para usuários com telas menores, o filtro poderia ser menos acessível. Como solução, propôs-se mover o filtro para uma posição mais destacada e observar se essa alteração influenciaria o comportamento dos usuários, aumentando sua utilização. Por estar alinhada aos objetivos estratégicos da equipe e envolver baixa complexidade de desenvolvimento (algo necessário, dado o cronograma limitado deste trabalho), essa foi a hipótese escolhida para o experimento controlado.
+Diante dessa percepção, o profissional supôs que a baixa adoção do filtro poderia estar relacionada à sua posição na interface gráfica, já que ele se encontrava no final da barra de filtros. Especulou-se que, para usuários com telas menores, o filtro poderia ser menos acessível. Como solução, propôs-se mover o filtro para uma posição mais destacada e observar se essa alteração influenciaria o comportamento dos usuários, aumentando sua utilização. Por estar alinhada aos objetivos estratégicos da equipe e envolver baixa complexidade de desenvolvimento (algo necessário, dado o cronograma limitado deste trabalho), essa foi a hipótese escolhida para o experimento controlado.
 
 
 \begin{figure}
@@ -20,5 +20,5 @@ Diante dessa percepção, o colaborador conjecturou que a baixa adoção do filt
     \begin{center}
         \text{Fonte: Autor}
     \end{center}
-    \label{fig:selecao-questoes-tratamento}
+    \label{fig:selecao-questoes-controle}
 \end{figure}

diff --git a/editaveis/proposta.tex b/editaveis/proposta.tex
@@ -13,16 +13,16 @@ Este capítulo apresenta a proposta e o planejamento do estudo de caso a ser con
 
 \input{editaveis/secao-proposta/instrumentacao}
 
-\chapter{Execução do Estudo de Caso}
+\chapter{Execução e Resultados do Estudo de Caso}
 \label{subsec:execucao}
 
-Neste capítulo, são apresentandos os resultados da execução do estudo de caso bem como, a análise dos dados e a discussão dos "achados". Assim, são descritos os procedimentos adotados e seus respectivos resultados. Além dos pesquisadores, participaram desse processo, profissionais da empresa que ocupam  seguintes papéis: Gerente de Produto, \textit{Designer} de Produto e \textit{Designer} Pedagógico (este último, equivalente a um especialista de negócios, tem a função de trazer uma perspectiva pedagógica e garantir que o produto esteja alinhado às necessidades reais do usuário).
+Neste capítulo, são apresentandos os resultados da execução do estudo de caso bem como, a análise dos dados coletados e levantamento de discussões referentes aos . Assim, são descritos os procedimentos adotados e seus respectivos resultados. Além dos pesquisadores, participaram desse processo, profissionais da empresa que ocupam  seguintes papéis: Gerente de Produto, \textit{Designer} de Produto e \textit{Designer} Pedagógico (este último, equivalente a um especialista de negócios, tem a função de trazer uma perspectiva pedagógica e garantir que o produto esteja alinhado às necessidades reais do usuário).
 
 \section{Processo de Experimentação}
 
-\todo[inline, color=yellow]{Embora este capítulo seja do estudo de caso, daqui para frente só tem informação sobre o experimento. A estrutura do capítulo precisa ser acertada. Praticamente não há discussão explicando e deixando claro esse encadeamento dos dos estudos. Como conversamos, você tem um experimento controlado dentro do estudo de caso, com objetivo de responder uma questão específica do estudo de caso. Antes de começar a descrever a execução do experimento, escreva um parágrafo que amarre essas deias)}
+Visando responder à primeira questão específica deste estudo de caso (\textit{Durante o experimento, foi possível identificar diferença de qualidade em uso entre as versões de controle (A) e de tratamento (B) do produto, a partir de seu uso?}), foi conduzido um experimento controlado. Esse método de pesquisa tem como objetivo testar hipóteses por meio da manipulação de uma ou mais variáveis e da observação dos efeitos dessa modificação sobre outras variáveis, enquanto se mantêm constantes os fatores que poderiam interferir nos resultados. Esse controle permite estabelecer relações causais.
 
-Nesta seção são descritas as atividades realizadas que tomaram como base o processo de experimentação proposto no capítulo anterior, apresentado no \textcolor{blue}{Apêndice}\todo[color=yellow]{As Três/duas imganes precisam ser exepcificamente citadas.} Apêndice \ref{apdx:processo-novo} e descrito na Seção \ref{sec:procedimentos}. Basicamente uma suposição sobre o produto analisado foi levantada para ser validada através de um experimento controlado, de forma a permitir a tomada de decisão sobre qual a versão mais adequada para implementação definitiva.
+Desta forma, nesta seção são descritas as atividades realizadas que tomaram como base o processo de experimentação proposto no capítulo anterior, apresentado nas Figuras \ref{fig:novo-process-a}, \ref{fig:novo-process-b} e \ref{fig:novo-process-c} e descrito na Seção \ref{sec:procedimentos}. Além da formalização do experimento controlado. Basicamente uma suposição sobre o produto analisado foi levantada para ser validada através de um experimento controlado, de forma a permitir a tomada de decisão sobre qual a versão mais adequada para implementação definitiva.
 
 \input{editaveis/secao-execucao/ideacao}
 

diff --git a/editaveis/secao-proposta/definicao.tex b/editaveis/secao-proposta/definicao.tex
@@ -66,7 +66,7 @@ Buscando responder à questão principal de pesquisa do trabalho, apresentada na
 
 Serão coletadas métricas do comportamento em uso do produto. Também conhecidos como sinais ou eventos, métricas de comportamento em uso podem ser quaisquer interações do usuário com o produto, como quantidade de cliques, tempo de uso, tempo empregado para realização de uma determinada tarefa, etc. No contexto deste estudo de caso, os eventos a serem observados dependerão da hipótese escolhida. Esses dados quantitativos devem caracterizar a qualidade em uso de cada versão, como definido pela norma \citeonline{nbr9241}, onde serão avaliadas diferentes características de qualidade, como a satisfação, a eficácia e a eficiência.
 
-Para responder essas questões específicas foram realizados dois estudos. O primeiro será um experimento controlado, sendo o fator, a percepção da qualidade em uso e dois duas versões do produto, que serão os dois tratamentos que serão comparados. Tratam-se da versão atual do produto e de um nova versão desenvolvida, onde foi implementada uma alteração na interface gráfica. Já o segundo estudo, será um questionário com a opinião de dos especialistas do negócio e do produto.Procuramos analisar a percepção desses participantes em relação aos resultados obtidos no experimento e a tomada de decisão sobre a escolha da versão. Dessa forma, a seguir são apresentadas as questões específicas:
+Para responder essas questões específicas foram planejados dois estudos. O primeiro será um experimento controlado, sendo o fator, a percepção da qualidade em uso e dois duas versões do produto, que serão os dois tratamentos que serão comparados. Tratam-se da versão atual do produto e de um nova versão desenvolvida, onde foi implementada uma alteração na interface gráfica. Já o segundo estudo, será um questionário com a opinião de dos especialistas do negócio e do produto.Procuramos analisar a percepção desses participantes em relação aos resultados obtidos no experimento e a tomada de decisão sobre a escolha da versão. Dessa forma, a seguir são apresentadas as questões específicas:
 
 \begin{itemize}
     \item \textbf{Questão Específica 1.1:}  Durante o experimento, foi possível identificar diferença de qualidade em uso entre as versões de controle (A) e de tratamento (B) do produto, a partir de seu uso? 
